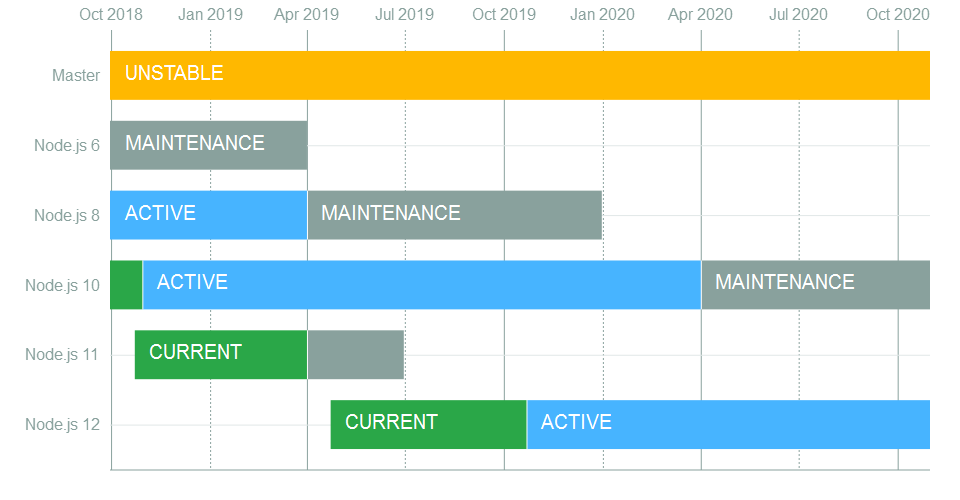
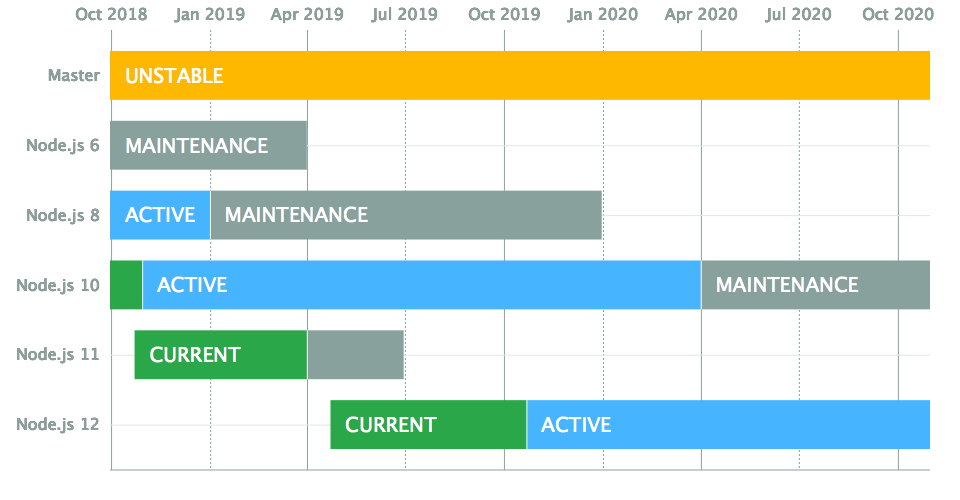
schedule: move 8.x maintenance to January 1 2019
Closes: https://github.com/nodejs/Release/issues/376

diff --git a/README.md b/README.md
@@ -5,7 +5,7 @@
 | Release  | Status              | Codename    |Initial Release | Active LTS Start | Maintenance LTS Start | End-of-life               |
 | :--:     | :---:               | :---:       | :---:          | :---:            | :---:                 | :---:                     |
 | [6.x][]  | **Maintenance LTS** | [Boron][]   | 2016-04-26     | 2016-10-18       | 2018-04-30            | April 2019                |
-| [8.x][]  | **Active LTS**      | [Carbon][]  | 2017-05-30     | 2017-10-31       | April 2019            | December 2019<sup>1</sup> |
+| [8.x][]  | **Active LTS**      | [Carbon][]  | 2017-05-30     | 2017-10-31       | 2019-01-01            | December 2019<sup>1</sup> |
 | [10.x][] | **Active LTS**      | [Dubnium][] | 2018-04-24     | 2018-10-30       | April 2020            | April 2021                |
 | [11.x][] | **Current Release** |             | 2018-10-23     |                  |                       | June 2019                 |
 | 12.x     | **Pending**         |             | 2019-04-23     | October 2019     | April 2021            | April 2022                |
